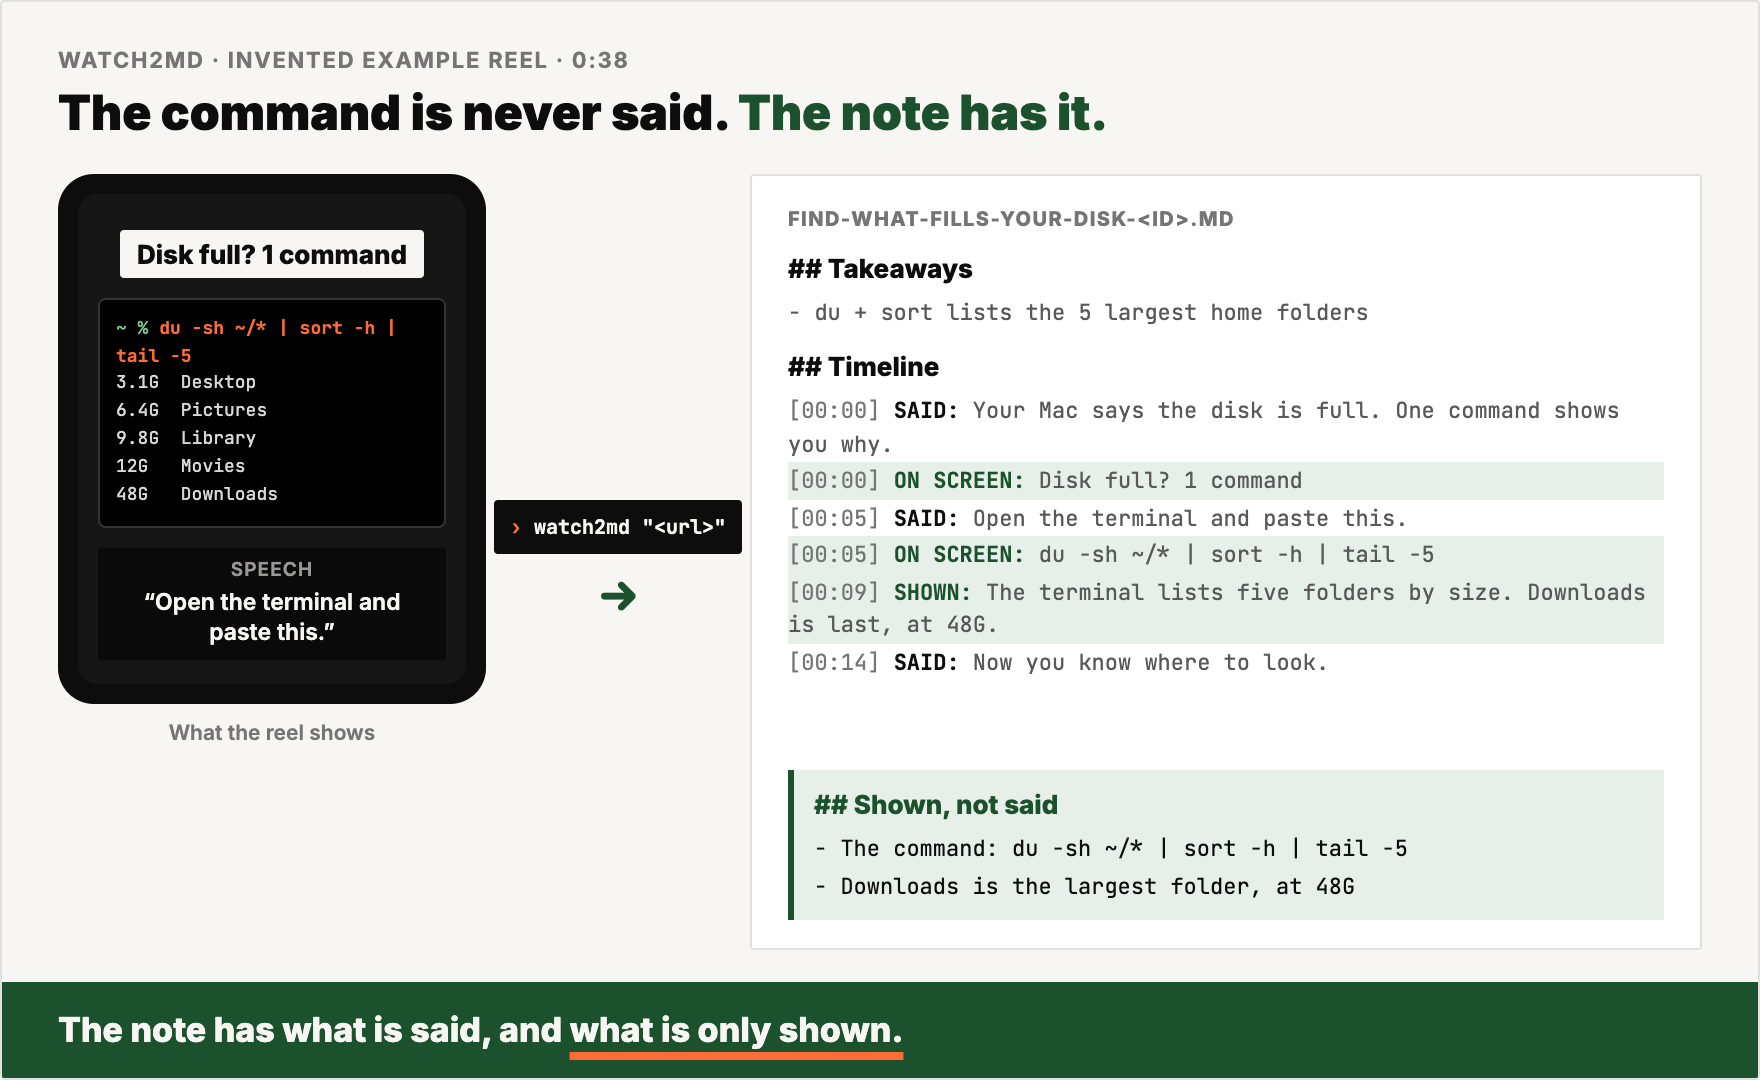
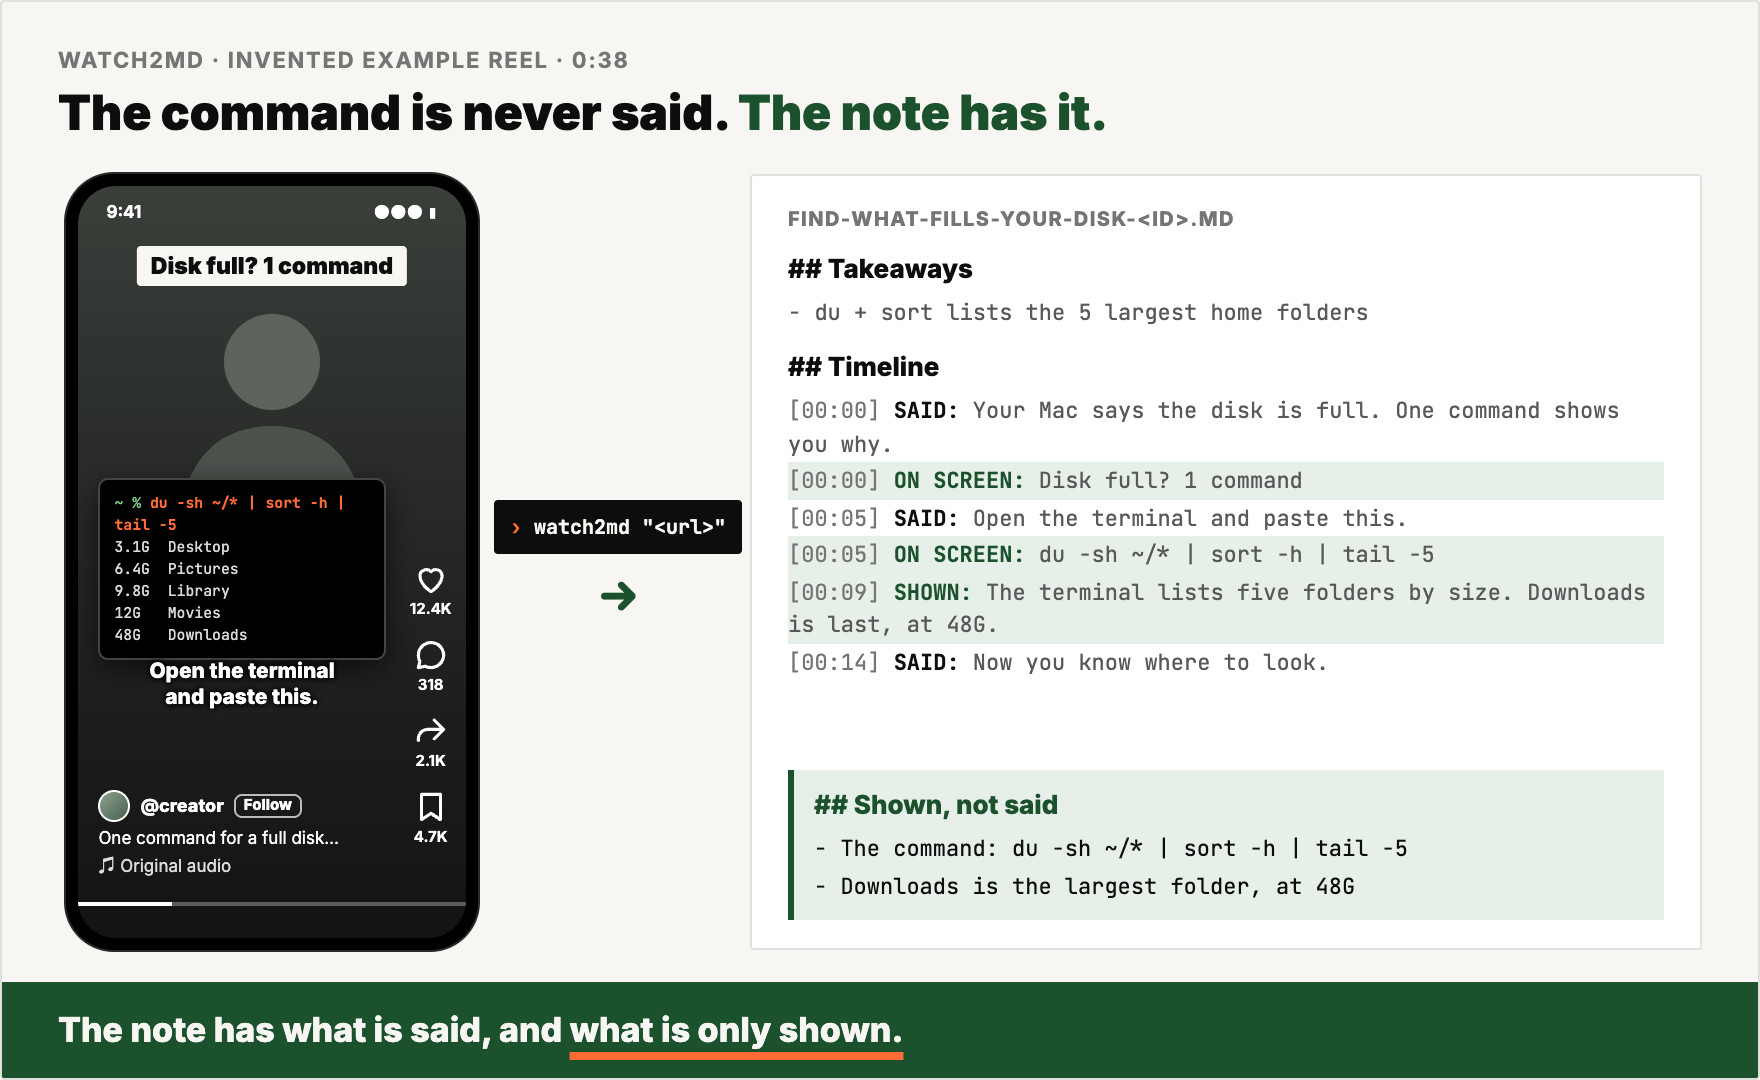
Hero: short-video screen

Changed region(s): [[0.0312, 0.1528, 0.2812, 0.8861]]

diff --git a/README.md b/README.md
@@ -13,7 +13,7 @@
 </p>
 
 <p align="center">
-  <img src="assets/hero.png" width="880" alt="An invented example reel, 38 seconds. On screen: the caption 'Disk full? 1 command' and a terminal with the command du -sh ~/* | sort -h | tail -5, which lists five folders by size, with Downloads last at 48G. The speech only says: Open the terminal and paste this. watch2md turns the reel link into a note. Its Timeline has each SAID, ON SCREEN and SHOWN entry with a timestamp. Its 'Shown, not said' section has the command and the 48G Downloads folder. The command is never said. The note has it.">
+  <img src="assets/hero.png" width="880" alt="An invented example reel, 38 seconds, on a short-video screen with an invented creator, like, comment, share and save counts, and burned-in subtitles. On screen: the caption 'Disk full? 1 command' and a terminal with the command du -sh ~/* | sort -h | tail -5, which lists five folders by size, with Downloads last at 48G. The speech only says: Open the terminal and paste this. watch2md turns the reel link into a note. Its Timeline has each SAID, ON SCREEN and SHOWN entry with a timestamp. Its 'Shown, not said' section has the command and the 48G Downloads folder. The command is never said. The note has it.">
 </p>
 
 Short videos teach a lot: a prompt, a command, a framework on a slide, a tool in a demo. Much of it is only on screen. Give your agent the link to a reel, a TikTok, a YouTube video or an Instagram carousel. Your agent runs `watch2md "<url>"` and gets a markdown note with the speech and with all that the video shows: captions, slides, code, UI demos and diagrams. Then your agent puts that knowledge into your skills, playbooks and notes.
